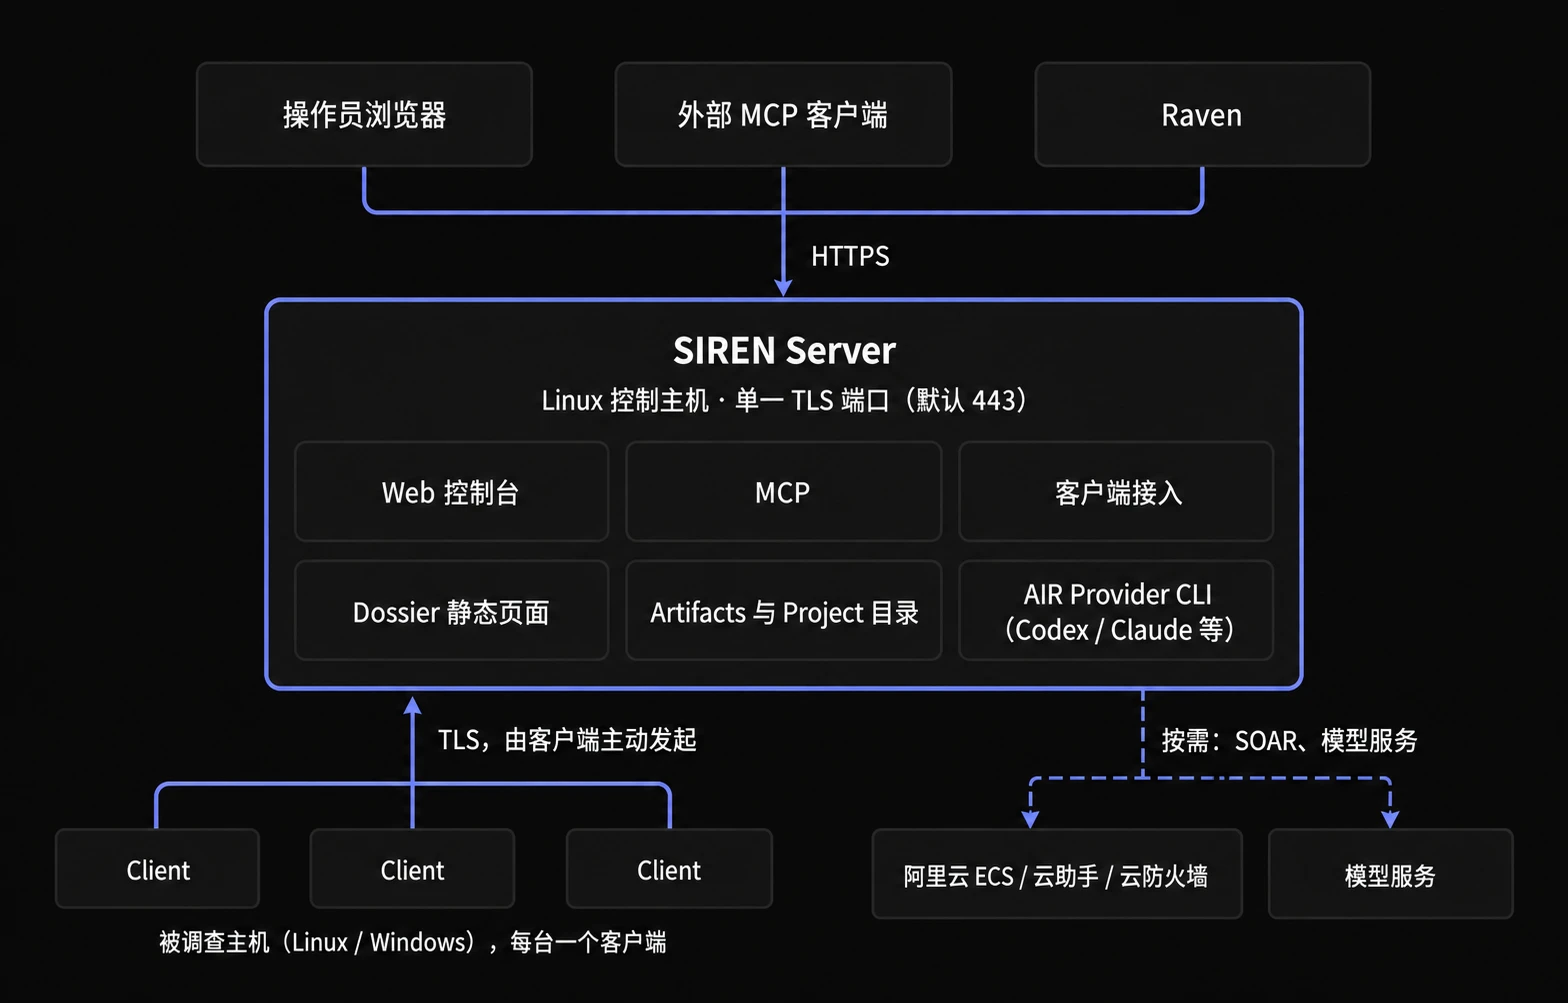
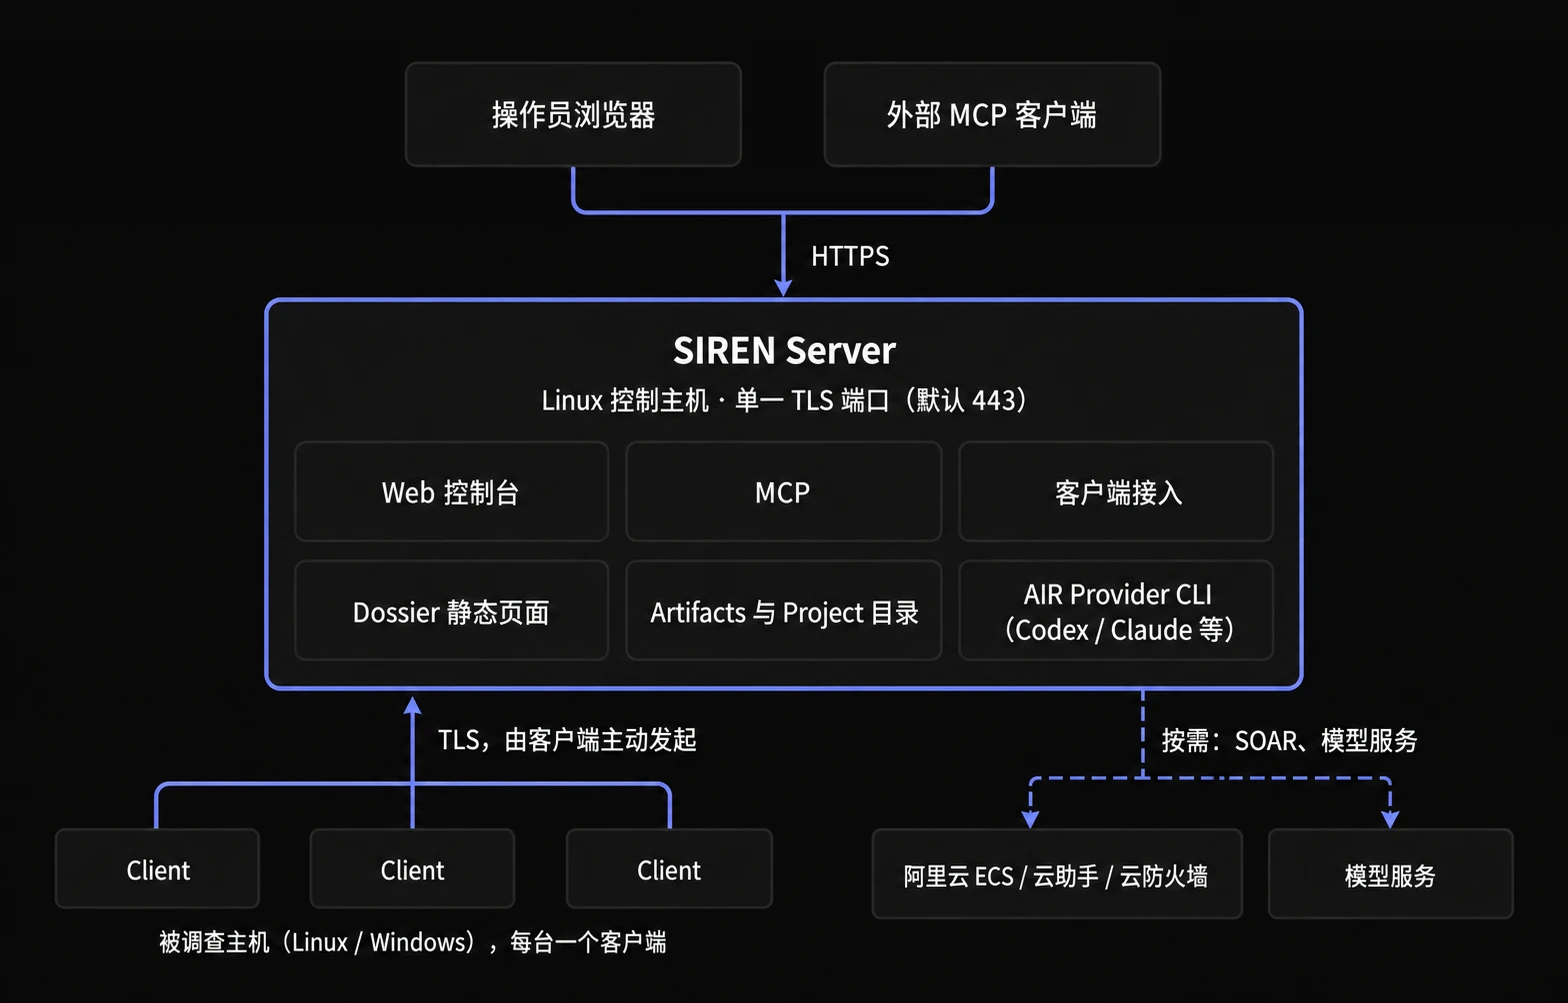
docs(siren): drop Raven and document the admin-only MCP token

diff --git a/docs/agent-guidance/release-notes.md b/docs/agent-guidance/release-notes.md
@@ -17,5 +17,5 @@ checked against) and `sources` (the code its claims depend on).
 When documenting a new release, run it, update each listed page against the new
 code, then set its `verifiedAgainst` to the new version. When a page starts
 describing new code, add those paths to its `sources`. The check needs sibling
-checkouts at `../siren`, `../dossier`, and `../raven`, or the `SIREN_DIR`,
-`DOSSIER_DIR`, and `RAVEN_DIR` environment variables.
+checkouts at `../siren` and `../dossier`, or the `SIREN_DIR` and `DOSSIER_DIR`
+environment variables.

diff --git a/docs/agent-guidance/repository.md b/docs/agent-guidance/repository.md
@@ -5,7 +5,7 @@
 - `content/docs/(siren)/` is the task-oriented SIREN user guide, organized
   around the WebUI.
 - `content/docs/reference/` is the reference root: configuration keys, server
-  REPL and client CLI, MCP, Raven, plugins, snapshot format, and limits.
+  REPL and client CLI, MCP, plugins, snapshot format, and limits.
 - Moved or deleted pages need a permanent redirect in `next.config.mjs`.
 - `app/`, `components/`, and `lib/` contain the Next.js/Fumadocs site shell and
   shared UI code.
